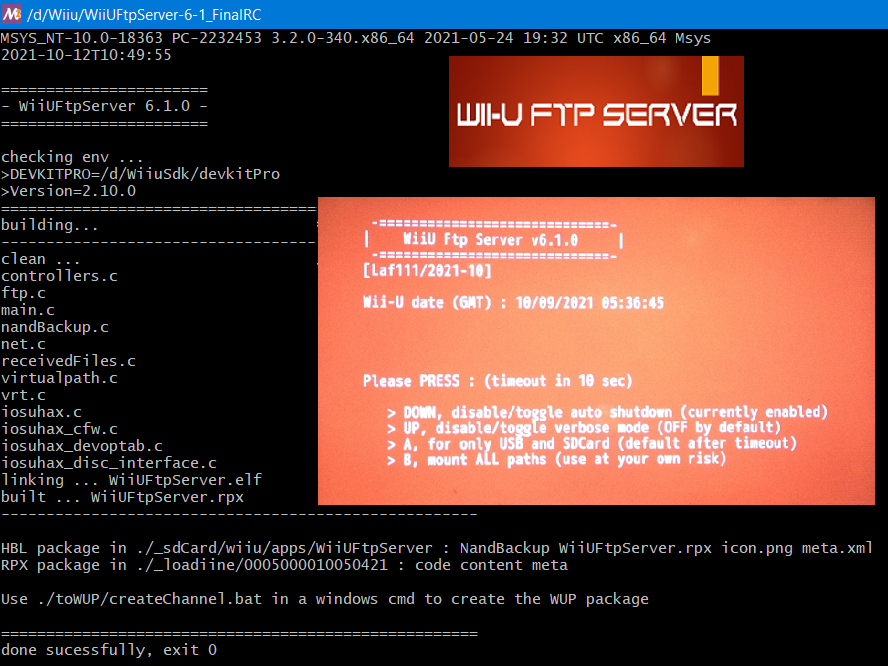
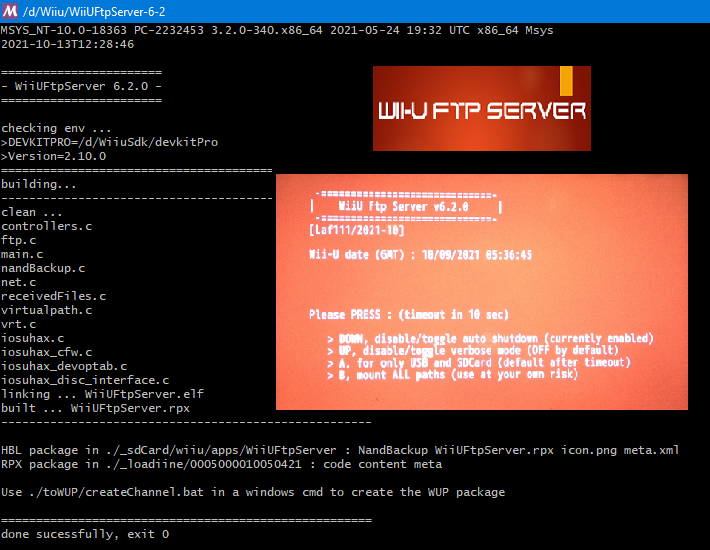
V6-2
2021/10/13 V6-2 :    
    > Restore originals headers in source files
    > unlimit the incomming connexions (hard limited for UL and DL in net.c)

Changed region(s): [[0.0, 0.0, 0.9915, 0.7727], [0.0, 0.8036, 0.9915, 0.9891], [0.0, 0.1236, 0.2479, 0.1855]]

diff --git a/src/net.h b/src/net.h
@@ -1,7 +1,26 @@
-/****************************************************************************
-  * WiiUFtpServer
-  * 2021/04/05:V1.0.0:Laf111: import ftp-everywhere code
- ***************************************************************************/
+/*
+
+Copyright (C) 2008 Joseph Jordan <joe.ftpii@psychlaw.com.au>
+
+This software is provided 'as-is', without any express or implied warranty.
+In no event will the authors be held liable for any damages arising from
+the use of this software.
+
+Permission is granted to anyone to use this software for any purpose,
+including commercial applications, and to alter it and redistribute it
+freely, subject to the following restrictions:
+
+1.The origin of this software must not be misrepresented; you must not
+claim that you wrote the original software. If you use this software in a
+product, an acknowledgment in the product documentation would be
+appreciated but is not required.
+
+2.Altered source versions must be plainly marked as such, and must not be
+misrepresented as being the original software.
+
+3.This notice may not be removed or altered from any source distribution.
+
+*/
 #ifndef _NET_H_
 #define _NET_H_
 
@@ -27,8 +46,8 @@ extern "C"{
 
 #define DEFAULT_NET_BUFFER_SIZE 64*1024
 
-// max data connections number : listener + passive_socket + data_socket*2 (two ways)
-#define NB_SIMULTANEOUS_CONNECTIONS 4
+// max data connections number : unlimit (UP and DL are hard limited to 1 in net.c)
+#define NB_SIMULTANEOUS_CONNECTIONS 99
 
 void initialize_network();
 void finalize_network();

diff --git a/src/virtualpath.h b/src/virtualpath.h
@@ -1,5 +1,31 @@
-/****************************************************************************
-  * WiiUFtpServer
+ /****************************************************************************
+ * Copyright (C) 2010
+ * by Dimok
+ *
+ * Original VIRTUAL_PART Struct
+ * Copyright (C) 2008
+ * Joseph Jordan <joe.ftpii@psychlaw.com.au>
+ *
+ * This software is provided 'as-is', without any express or implied
+ * warranty. In no event will the authors be held liable for any
+ * damages arising from the use of this software.
+ *
+ * Permission is granted to anyone to use this software for any
+ * purpose, including commercial applications, and to alter it and
+ * redistribute it freely, subject to the following restrictions:
+ *
+ * 1. The origin of this software must not be misrepresented; you
+ * must not claim that you wrote the original software. If you use
+ * this software in a product, an acknowledgment in the product
+ * documentation would be appreciated but is not required.
+ *
+ * 2. Altered source versions must be plainly marked as such, and
+ * must not be misrepresented as being the original software.
+ *
+ * 3. This notice may not be removed or altered from any source
+ * distribution.
+ *
+ * for WiiXplorer 2010
  ***************************************************************************/
 #ifndef _VIRTUALPATH_H_
 #define _VIRTUALPATH_H_

diff --git a/src/virtualpath.c b/src/virtualpath.c
@@ -1,5 +1,30 @@
-/****************************************************************************
-  * WiiUFtpServer
+ /****************************************************************************
+ * Copyright (C) 2008
+ * Joseph Jordan <joe.ftpii@psychlaw.com.au>
+ *
+ * Copyright (C) 2010
+ * by Dimok
+ *
+ * This software is provided 'as-is', without any express or implied
+ * warranty. In no event will the authors be held liable for any
+ * damages arising from the use of this software.
+ *
+ * Permission is granted to anyone to use this software for any
+ * purpose, including commercial applications, and to alter it and
+ * redistribute it freely, subject to the following restrictions:
+ *
+ * 1. The origin of this software must not be misrepresented; you
+ * must not claim that you wrote the original software. If you use
+ * this software in a product, an acknowledgment in the product
+ * documentation would be appreciated but is not required.
+ *
+ * 2. Altered source versions must be plainly marked as such, and
+ * must not be misrepresented as being the original software.
+ *
+ * 3. This notice may not be removed or altered from any source
+ * distribution.
+ *
+ * for WiiXplorer 2010
  ***************************************************************************/
 #include <malloc.h>
 #include <string.h>

diff --git a/src/vrt.c b/src/vrt.c
@@ -1,6 +1,27 @@
-/****************************************************************************
-  * WiiUFtpServer
- ***************************************************************************/
+/*
+
+Copyright (C) 2008 Joseph Jordan <joe.ftpii@psychlaw.com.au>
+This work is derived from Daniel Ehlers' <danielehlers@mindeye.net> srg_vrt branch.
+
+This software is provided 'as-is', without any express or implied warranty.
+In no event will the authors be held liable for any damages arising from
+the use of this software.
+
+Permission is granted to anyone to use this software for any purpose,
+including commercial applications, and to alter it and redistribute it
+freely, subject to the following restrictions:
+
+1.The origin of this software must not be misrepresented; you must not
+claim that you wrote the original software. If you use this software in a
+product, an acknowledgment in the product documentation would be
+appreciated but is not required.
+
+2.Altered source versions must be plainly marked as such, and must not be
+misrepresented as being the original software.
+
+3.This notice may not be removed or altered from any source distribution.
+
+*/
 #include <errno.h>
 #include <malloc.h>
 #include <stdarg.h>

diff --git a/src/vrt.h b/src/vrt.h
@@ -1,6 +1,27 @@
-/****************************************************************************
-  * WiiUFtpServer
- ***************************************************************************/
+/*
+
+Copyright (C) 2008 Joseph Jordan <joe.ftpii@psychlaw.com.au>
+This work is derived from Daniel Ehlers' <danielehlers@mindeye.net> srg_vrt branch.
+
+This software is provided 'as-is', without any express or implied warranty.
+In no event will the authors be held liable for any damages arising from
+the use of this software.
+
+Permission is granted to anyone to use this software for any purpose,
+including commercial applications, and to alter it and redistribute it
+freely, subject to the following restrictions:
+
+1.The origin of this software must not be misrepresented; you must not
+claim that you wrote the original software. If you use this software in a
+product, an acknowledgment in the product documentation would be
+appreciated but is not required.
+
+2.Altered source versions must be plainly marked as such, and must not be
+misrepresented as being the original software.
+
+3.This notice may not be removed or altered from any source distribution.
+
+*/
 #ifndef _VRT_H_
 #define _VRT_H_
 

diff --git a/src/ftp.c b/src/ftp.c
@@ -1,6 +1,28 @@
-/****************************************************************************
-  * WiiUFtpServer
- ***************************************************************************/
+/*
+
+ftpii -- an FTP server for the Wii
+
+Copyright (C) 2008 Joseph Jordan <joe.ftpii@psychlaw.com.au>
+
+This software is provided 'as-is', without any express or implied warranty.
+In no event will the authors be held liable for any damages arising from
+the use of this software.
+
+Permission is granted to anyone to use this software for any purpose,
+including commercial applications, and to alter it and redistribute it
+freely, subject to the following restrictions:
+
+1.The origin of this software must not be misrepresented; you must not
+claim that you wrote the original software. If you use this software in a
+product, an acknowledgment in the product documentation would be
+appreciated but is not required.
+
+2.Altered source versions must be plainly marked as such, and must not be
+misrepresented as being the original software.
+
+3.This notice may not be removed or altered from any source distribution.
+
+*/
 #include <malloc.h>
 #include <stdlib.h>
 #include <string.h>

diff --git a/src/ftp.h b/src/ftp.h
@@ -1,6 +1,28 @@
-/****************************************************************************
-  * WiiUFtpServer
- ***************************************************************************/
+/*
+
+ftpii -- an FTP server for the Wii
+
+Copyright (C) 2008 Joseph Jordan <joe.ftpii@psychlaw.com.au>
+
+This software is provided 'as-is', without any express or implied warranty.
+In no event will the authors be held liable for any damages arising from
+the use of this software.
+
+Permission is granted to anyone to use this software for any purpose,
+including commercial applications, and to alter it and redistribute it
+freely, subject to the following restrictions:
+
+1.The origin of this software must not be misrepresented; you must not
+claim that you wrote the original software. If you use this software in a
+product, an acknowledgment in the product documentation would be
+appreciated but is not required.
+
+2.Altered source versions must be plainly marked as such, and must not be
+misrepresented as being the original software.
+
+3.This notice may not be removed or altered from any source distribution.
+
+*/
 #ifndef _FTP_H_
 #define _FTP_H_
 

diff --git a/src/net.c b/src/net.c
@@ -1,6 +1,26 @@
-/****************************************************************************
-  * WiiUFtpServer
- ***************************************************************************/
+/*
+
+Copyright (C) 2008 Joseph Jordan <joe.ftpii@psychlaw.com.au>
+
+This software is provided 'as-is', without any express or implied warranty.
+In no event will the authors be held liable for any damages arising from
+the use of this software.
+
+Permission is granted to anyone to use this software for any purpose,
+including commercial applications, and to alter it and redistribute it
+freely, subject to the following restrictions:
+
+1.The origin of this software must not be misrepresented; you must not
+claim that you wrote the original software. If you use this software in a
+product, an acknowledgment in the product documentation would be
+appreciated but is not required.
+
+2.Altered source versions must be plainly marked as such, and must not be
+misrepresented as being the original software.
+
+3.This notice may not be removed or altered from any source distribution.
+
+*/
 #include <stdint.h>
 #include <stdbool.h>
 #include <stdio.h>
